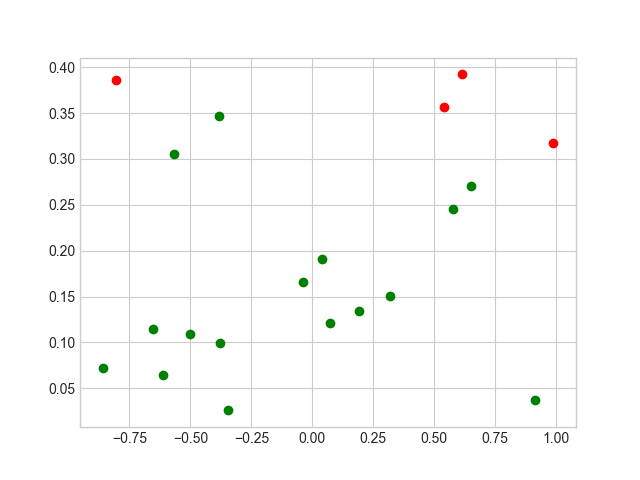
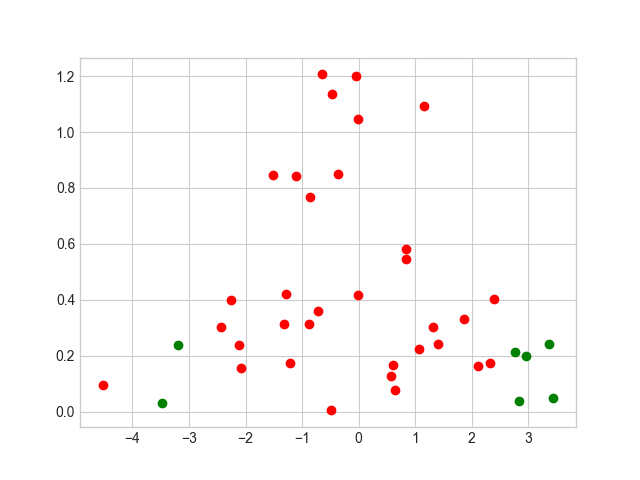
commit

diff --git a/inverse_cdf_transform.py b/inverse_cdf_transform.py
@@ -4,7 +4,6 @@ from math import e
 from math import log
 from scipy.stats import norm
 from scipy.stats import expon
-from scipy.integrate import quad
 import matplotlib.pyplot as plt
 import seaborn
 
@@ -32,19 +31,28 @@ choice = int(input())
 y_list = numpy.random.uniform(0, 1, n)
 vfunc = numpy.vectorize(inverse_func)
 inverse_list = vfunc(y_list, choice)
-seaborn.kdeplot(data=inverse_list)
-plt.show()
 
 
 def kde(x):
     sum = 0
     for entry in inverse_list:
-        sum += norm.pdf(x, entry)
-    return sum / len(inverse_list)
+        sum += norm.pdf(x / 0.05, entry / 0.05)
+    return sum / (len(inverse_list) * 0.05)
 
 
 numpy_kde = numpy.vectorize(kde)
-kde_list = numpy_kde(inverse_list)
+kde_list = numpy_kde(sorted(inverse_list))
+seaborn.kdeplot(data=inverse_list, color="red")
+seaborn.kdeplot(
+    data=numpy.random.standard_exponential(n)
+    if choice
+    else numpy.random.standard_normal(n),
+    color="blue",
+)
+plt.plot(sorted(inverse_list), kde_list, color="green")
+plt.show()
+
+
 pdf_func = numpy.vectorize(func)
 actual = pdf_func(inverse_list, choice)
 kl_divergence = (
@@ -58,6 +66,7 @@ class ExampleFunctionGraph(Scene):
         def pdf_init(choose, axis, scene):
             ans = VGroup()
             ans += axis.plot(lambda x: func(x, choice), color=GREEN)
+            ans.make_jagged()
             text = Tex("Actual pdf:")
             axis.fade(darkness=0.8, family=True)
             scene.add(text)
@@ -79,8 +88,7 @@ class ExampleFunctionGraph(Scene):
             axis_config={"include_numbers": True},
         )
         dot_list = []
-        graph = VGroup()
-        graph += grid.plot(
+        graph = grid.plot(
             lambda x: cdf_func(x, choice),
             color=WHITE,
         )
@@ -92,6 +100,7 @@ class ExampleFunctionGraph(Scene):
         self.add(text)
         self.play(FadeOut(text))
         grid.set_opacity(1)
+        graph.make_jagged()
         self.add(graph)
         self.play(FadeIn(graph))
         self.wait(0.5)
@@ -104,7 +113,7 @@ class ExampleFunctionGraph(Scene):
         self.play(FadeOut(text))
         graph.set_color(WHITE)
         grid.set_opacity(1)
-        for element in y_list:
+        for element in y_list[:50]:
             dot = Dot(grid.coords_to_point(0, element, 0), color=RED)
             self.add(dot)
             dot_list.append(dot)
@@ -119,7 +128,7 @@ class ExampleFunctionGraph(Scene):
             hline.append(horizontal)
             vline.append(vertical)
         dot = VGroup()
-        for i in range(n):
+        for i in range(50):
             hline[i % 10] += grid.get_horizontal_line(
                 grid.c2p(inverse_list[i], y_list[i], 0), color=BLUE
             )
@@ -156,18 +165,24 @@ class ExampleFunctionGraph(Scene):
         self.play(FadeOut(text))
         grid.set_opacity(1)
         dot.set_opacity(1)
-        legends=VGroup()
-        kde_line=Line(start=numpy.array([1,-1,0]),end=numpy.array([1.5,-1,0]),color=WHITE)
-        actual_line=Line(start=numpy.array([1,-1.5,0]),end=numpy.array([1.5,-1.5,0]),color=GREEN)
-        kde_text=Tex("kde plot").next_to(kde_line,RIGHT).scale(0.5)
-        actual_text=Tex("actual pdf").next_to(actual_line,RIGHT).scale(0.5)
-        legends+=kde_line
-        legends+=actual_line
-        legends+=kde_text
-        legends+=actual_text
-        self.add(kde_line,actual_line,kde_text,actual_text)
+        legends = VGroup()
+        kde_line = Line(
+            start=numpy.array([1, -1, 0]), end=numpy.array([1.5, -1, 0]), color=WHITE
+        )
+        actual_line = Line(
+            start=numpy.array([1, -1.5, 0]),
+            end=numpy.array([1.5, -1.5, 0]),
+            color=GREEN,
+        )
+        kde_text = Tex("kde plot").next_to(kde_line, RIGHT).scale(0.5)
+        actual_text = Tex("actual pdf").next_to(actual_line, RIGHT).scale(0.5)
+        legends += kde_line
+        legends += actual_line
+        legends += kde_text
+        legends += actual_text
+        self.add(kde_line, actual_line, kde_text, actual_text)
         self.add(graph2)
-        actual_graph=grid.plot(lambda x: func(x, choice), color=GREEN)
+        actual_graph = grid.plot(lambda x: func(x, choice), color=GREEN).make_jagged()
         self.play(FadeIn(graph2))
         self.play(FadeIn(actual_graph))
         self.wait(1)

diff --git a/Rejection_sampling.py b/Rejection_sampling.py
@@ -1,13 +1,24 @@
 from manim import *
 import numpy
-from scipy.stats import norm
 import matplotlib.pyplot as plt
 from math import pi
+from math import e
+
+
+def norm(x, mu, sigma):
+    return 1 / ((2 * pi) ** 0.5 * sigma) * e ** ((-((x - mu) ** 2)) / (2 * sigma**2))
+
+
+def pdf(x):
+    return 0.5 * norm(x, -3, 0.5) + 0.5 * norm(x, 3, 0.5)
+
 
 n = int(input())
-x = numpy.random.uniform(-1, 1, n)
-y = numpy.random.uniform(0, 1/(2*pi)**0.5, n)
-filter = y <= norm.pdf(x)
+x = numpy.random.normal(0, 2, n)
+y = numpy.zeros(n)
+for i in range(n):
+    y[i] = numpy.random.uniform(low=0, high=6.5 * norm(x[i], 0, 2), size=None)
+filter = y <= pdf(x)
 plt.style.use("seaborn-whitegrid")
 plt.plot(x[filter], y[filter], "o", color="green")
 plt.plot(x[~filter], y[~filter], "o", color="red")
@@ -18,28 +29,37 @@ class RejectionSampling(Scene):
     def construct(self):
         grid = Axes(
             x_range=[-5, 5, 1],
-            y_range=[0, 0.5, 0.1],
+            y_range=[0, int(6.5 / (8 * pi) ** 0.5) + 1, 0.2],
         ).add_coordinates()
-        graph = grid.plot(lambda x: norm.pdf(x), color=GREEN)
-        graph2 = grid.plot(
-            lambda x: 1 / (2 * pi) ** 0.5 if (x > -1 and x < 1) else 0, color=YELLOW
-        )
-        graph2.make_jagged()
+        graph = grid.plot(lambda x: pdf(x), color=GREEN)
+        graph2 = grid.plot(lambda x: 6.5 * norm(x, 0, 2), color=YELLOW)
         self.add(grid, graph, graph2)
+        text0=MathTex(r"f(x)=0.5\mathcal{N}(3,0.25)+0.5\mathcal{N}(-3,0.25)").shift(3*UP+3*RIGHT).scale(0.5)
+        self.add(text0)
+        self.play(Write(text0))
+        text1=MathTex(r"g(x)=\mathcal{N}(0,4)").next_to(text0,DOWN).scale(0.5)
+        self.add(text1)
+        self.play(Write(text1))
+        text2=MathTex(r"C=6.5").next_to(text1,DOWN).scale(0.5)
+        self.add(text2)
+        self.play(FadeIn(text2))
         for i in range(n):
-            dot=Dot(color=WHITE).move_to(grid.c2p(x[i],0,0))
+            dot = Dot(color=WHITE).move_to(grid.c2p(x[i], 0, 0))
             self.add(dot)
             self.play(FadeIn(dot))
-            START = grid.c2p(x[i],0,0)
-            END =   grid.c2p(x[i],1,0)
-            line = DashedLine(START,END,color=BLUE)
+            START = grid.c2p(x[i], 0, 0)
+            END = grid.c2p(x[i], 2, 0)
+            line = DashedLine(START, END, color=BLUE)
             self.add(line)
             self.play(Create(line))
-            if (norm.pdf(x[i])>=y[i]):
-                dot=Dot(color=GREEN).move_to(grid.c2p(x[i],y[i],0))
-                self.add(dot)
-                self.play(FadeIn(dot))
+            if pdf(x[i]) >= y[i]:
+                dot_0 = Dot(color=GREEN).move_to(grid.c2p(x[i], y[i], 0))
+                self.add(dot_0)
+                self.play(FadeIn(dot_0))
             else:
-                dot=Dot(color=RED).move_to(grid.c2p(x[i],y[i],0))
-                self.add(dot)
-                self.play(FadeIn(dot))
+                dot_0 = Dot(color=RED).move_to(grid.c2p(x[i], y[i], 0))
+                self.add(dot_0)
+                self.play(FadeIn(dot_0))
+                cross = Cross(scale_factor=0.1).move_to(dot)
+                self.add(cross)
+                dot.set_opacity(0.2)

diff --git a/Metropolis_Hastings.py b/Metropolis_Hastings.py
@@ -1,0 +1,79 @@
+import numpy
+import matplotlib.pyplot as plt
+from math import e, pi
+from manim import *
+from scipy.stats import expon
+
+
+def norm(x, mu, sigma):
+    return (
+        1
+        / ((2 * pi * sigma**2) ** 0.5)
+        * e ** ((-((x - mu) ** 2)) / (2 * sigma**2))
+    )
+
+
+n = int(input())
+expo = numpy.vectorize(expon.pdf)
+l = numpy.zeros(n)
+l[0] = 1
+selection = numpy.zeros(n)
+selection[0] = 1
+for i in range(1, n, 1):
+    num0 = numpy.random.normal(l[i - 1], 2, size=None)
+    selection[i] = num0
+    a = (
+        expon.pdf(num0)
+        * norm(l[i - 1], num0, 2)
+        / (expon.pdf(l[i - 1]) * norm(num0, l[i - 1], 2))
+    )
+    if a >= 1:
+
+        l[i] = num0
+    else:
+        prob = numpy.random.uniform(low=0, high=1, size=None)
+        if prob <= a:
+            l[i] = num0
+        else:
+            l[i] = l[i - 1]
+x = numpy.linspace(-10, 10, n)
+y = expo(x)
+plt.plot(x, y)
+plt.style.use("seaborn-whitegrid")
+plt.plot(l, numpy.zeros(n))
+plt.show()
+print(l, len(l))
+
+
+class MetropolisHastings(Scene):
+    def construct(self):
+        grid = Axes(
+            x_range=[-10, 10, 1],
+            y_range=[0, 1, 0.1],
+        ).add_coordinates()
+        graph = grid.plot(lambda x: expon.pdf(x), color=BLUE).make_jagged()
+        self.add(grid, graph)
+        self.play(Create(graph))
+        dot = Dot(color=WHITE).move_to(grid.c2p(l[0], 0, 0))
+        self.add(dot)
+        self.play(FadeIn(dot))
+        graph_temp = grid.plot(lambda x: norm(x, l[0], 2))
+        self.add(graph_temp)
+        self.play(Create(graph_temp))
+        for i in range(1, n, 1):
+            dot = Dot(color=WHITE).move_to(grid.c2p(selection[i], 0, 0))
+            self.add(dot)
+            self.play(FadeIn(dot))
+            graph_temp_0 = grid.plot(lambda x: norm(x, selection[i], 2))
+            self.add(graph_temp_0)
+            self.play(Create(graph_temp_0))
+            if selection[i] == l[i]:
+                dot.set_color(GREEN)
+                self.play(FadeOut(graph_temp))
+                graph_temp = graph_temp_0
+            else:
+                cross = Cross(scale_factor=0.1).move_to(dot)
+                self.add(cross)
+                self.play(FadeIn(cross))
+                self.play(FadeOut(graph_temp_0))
+            self.wait(0.5)
